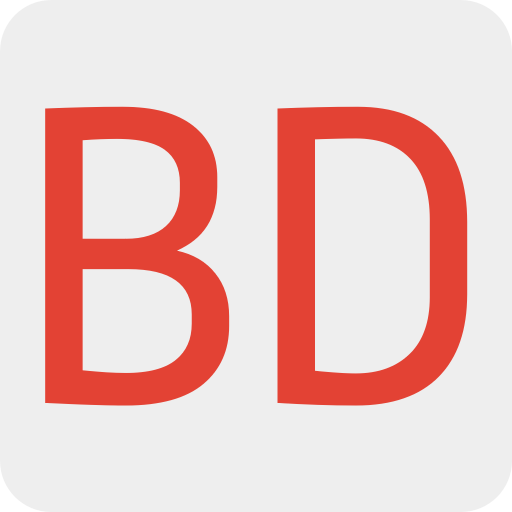
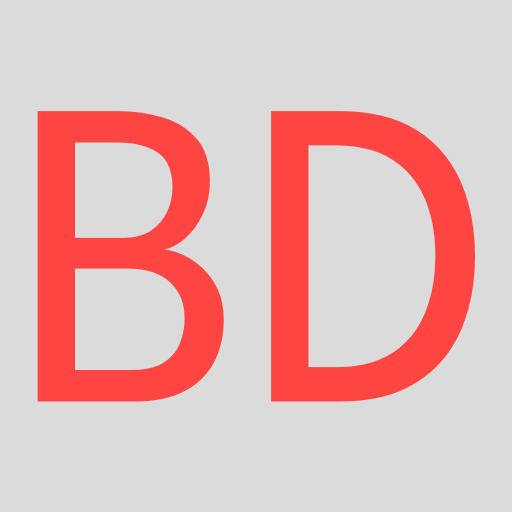
tweak site theme and light colors

diff --git a/src/static/styles/variables.css b/src/static/styles/variables.css
@@ -1,8 +1,8 @@
 :root {
   /* Colors */
   --dark-color: #242424;
-  --light-color: #fefefe;
-  --vermillion: #E03021;
+  --light-color: #dbdbdb;
+  --vermillion: #FF4542;
   --muted-color: #aaa;
 
   /* Other */
